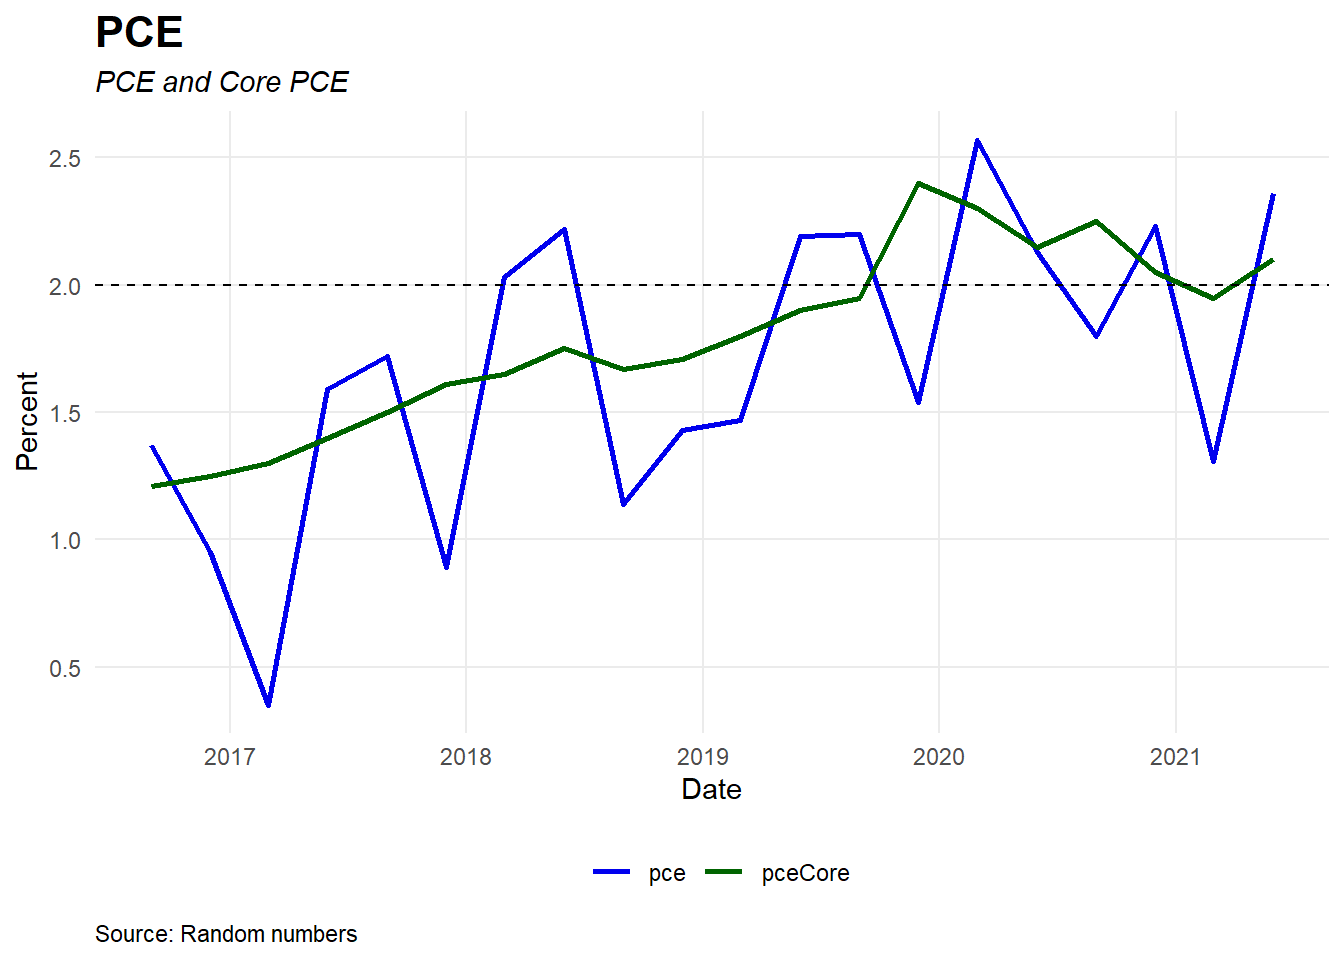
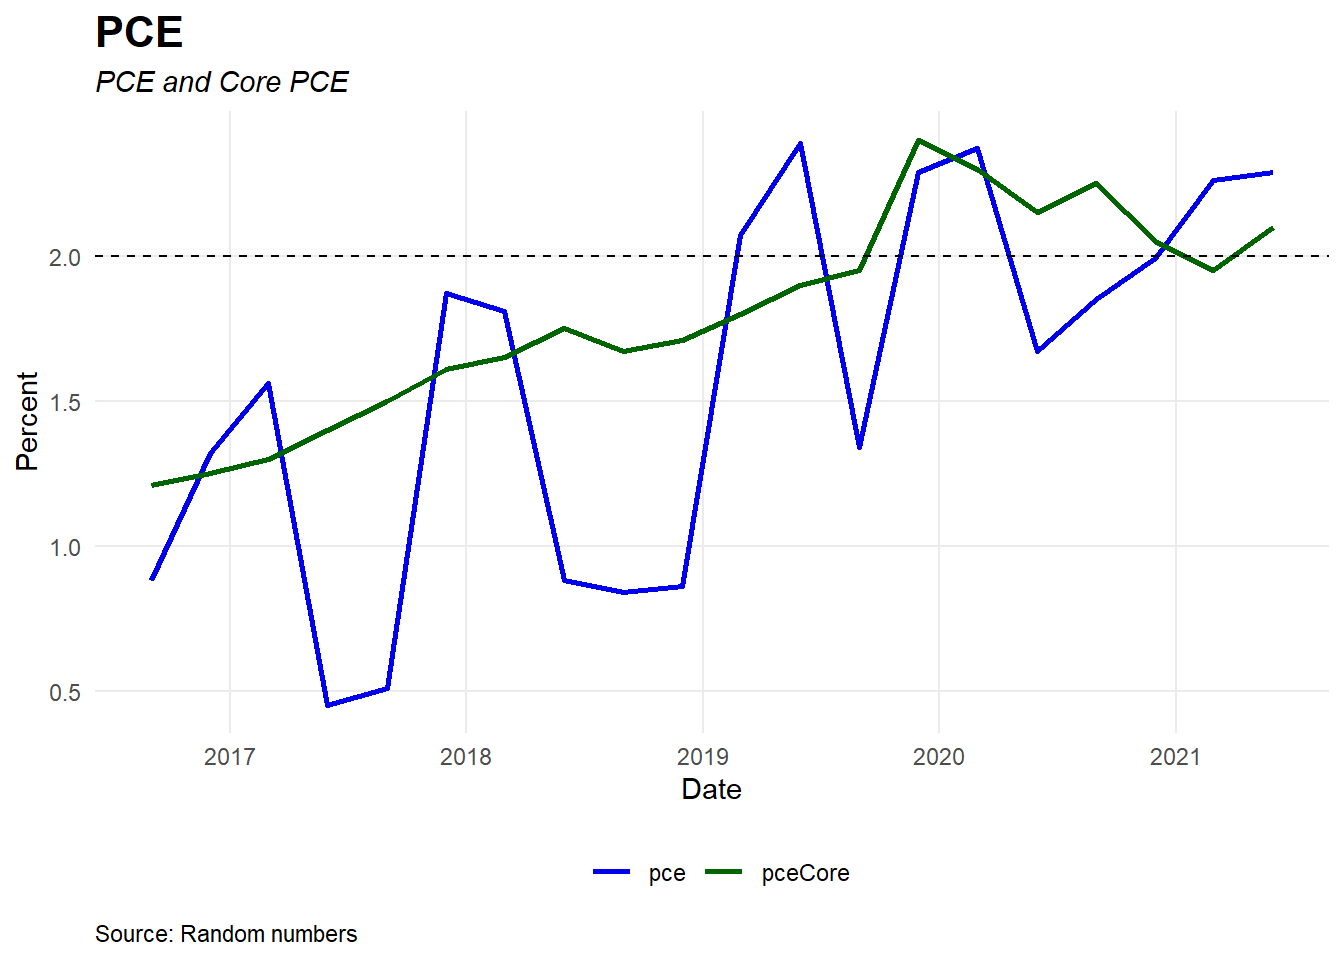
update

diff --git a/01-Plots.html b/01-Plots.html
@@ -382,30 +382,44 @@ summary {
 <div id="basic-line-plot" class="section level3">
 <h3>Basic Line Plot</h3>
 <p><strong>Create Dataframe</strong></p>
-<pre class="r"><code>#library(tidyverse)
+<pre class="r"><code>#bookdown::render_book(&quot;index.Rmd&quot;)
 
-### Create sample dataframe
+#```{r setup, include=FALSE}
+#knitr::opts_chunk$set(echo = TRUE)
+#library(tidyverse)
+#```
+
+#library(tidyverse)
+
+#####################################################################################################
+### Create sample dataframe                                                                       
+#####################################################################################################
+
 df &lt;- tibble(
   date = seq(as.Date(&#39;2015-01-01&#39;), as.Date(&#39;2021-08-31&#39;), by = &#39;month&#39;)-1,
   gdp = 2 + round(runif(80, min=-1, max=1),2),
-  pce = round(runif(80, min=-1, max=3.5),2),
+  pce = 2 + round(runif(80, min=-0.2, max=0.5),2),
   pceCore = pce + round(runif(80, min=-1, max=0.5),2)
 )
 
-### Prepare plotting: Convert to Longer dataframe
+
+#####################################################################################################
+### Prepare plotting: Convert to Longer dataframe                                                                     
+#####################################################################################################
 df &lt;- pivot_longer(df,
                    -date,
                    names_to = &quot;variable&quot;,
                    values_to = &quot;values&quot;)
 
 
-
-### Create Line plot with pce
 plotData &lt;- df %&gt;%
   filter(variable == &quot;pce&quot;)
 
 
-### Plot
+#####################################################################################################
+### Plot                                                                    
+#####################################################################################################
+
 plot &lt;- ggplot(plotData, aes(x = date, y = values, group = variable, color = variable)) + 
   geom_line(size = 1)+
   geom_hline(yintercept = 2, linetype = &quot;dashed&quot;)+
@@ -422,7 +436,7 @@ plot &lt;- ggplot(plotData, aes(x = date, y = values, group = variable, color = 
        caption=&quot;Source: Random numbers&quot;)
 
 plot</code></pre>
[2 lines of base64/hex data omitted]
 </div>
 </div>
 </div>

diff --git a/docs/plots.html b/docs/plots.html
@@ -131,9 +131,9 @@ code span.wa { color: #60a0b0; font-weight: bold; font-style: italic; } /* Warni
 <li class="chapter" data-level="1" data-path="plots.html"><a href="plots.html"><i class="fa fa-check"></i><b>1</b> Plots</a><ul>
 <li class="chapter" data-level="1.1" data-path="plots.html"><a href="plots.html#line-plots"><i class="fa fa-check"></i><b>1.1</b> Line Plots</a><ul>
 <li class="chapter" data-level="1.1.1" data-path="plots.html"><a href="plots.html#basic-line-plot"><i class="fa fa-check"></i><b>1.1.1</b> Basic Line Plot</a></li>
-<li class="chapter" data-level="1.1.2" data-path="plots.html"><a href="plots.html#scatterplot"><i class="fa fa-check"></i><b>1.1.2</b> Scatterplot</a></li>
-<li class="chapter" data-level="1.1.3" data-path="plots.html"><a href="plots.html#bar-chart"><i class="fa fa-check"></i><b>1.1.3</b> Bar Chart</a></li>
 </ul></li>
+<li class="chapter" data-level="1.2" data-path="plots.html"><a href="plots.html#scatterplots"><i class="fa fa-check"></i><b>1.2</b> Scatterplots</a></li>
+<li class="chapter" data-level="1.3" data-path="plots.html"><a href="plots.html#bar-charts"><i class="fa fa-check"></i><b>1.3</b> Bar Charts</a></li>
 </ul></li>
 </ul>
 
@@ -216,8 +216,9 @@ code span.wa { color: #60a0b0; font-weight: bold; font-style: italic; } /* Warni
 <a class="sourceLine" id="cb1-56" title="56">plot </a></code></pre></div>
 <p><img src="_main_files/figure-html/unnamed-chunk-1-1.png" width="672" /></p>
 </div>
-<div id="scatterplot" class="section level3">
-<h3><span class="header-section-number">1.1.2</span> Scatterplot</h3>
+</div>
+<div id="scatterplots" class="section level2">
+<h2><span class="header-section-number">1.2</span> Scatterplots</h2>
 <div class="sourceCode" id="cb2"><pre class="sourceCode r"><code class="sourceCode r"><a class="sourceLine" id="cb2-1" title="1"><span class="co">#library(tidyverse)</span></a>
 <a class="sourceLine" id="cb2-2" title="2"><span class="co">#####################################################################################################</span></a>
 <a class="sourceLine" id="cb2-3" title="3"><span class="co">### Create sample dataframe                                                                       </span></a>
@@ -250,8 +251,8 @@ code span.wa { color: #60a0b0; font-weight: bold; font-style: italic; } /* Warni
 <a class="sourceLine" id="cb2-30" title="30">plot </a></code></pre></div>
 <p><img src="_main_files/figure-html/unnamed-chunk-2-1.png" width="672" /></p>
 </div>
-<div id="bar-chart" class="section level3">
-<h3><span class="header-section-number">1.1.3</span> Bar Chart</h3>
+<div id="bar-charts" class="section level2">
+<h2><span class="header-section-number">1.3</span> Bar Charts</h2>
 <p><em>Bar Chart with different colors for positive and negative numbers</em></p>
 <div class="sourceCode" id="cb3"><pre class="sourceCode r"><code class="sourceCode r"><a class="sourceLine" id="cb3-1" title="1"><span class="co">#library(tidyverse)</span></a>
 <a class="sourceLine" id="cb3-2" title="2"><span class="co">#####################################################################################################</span></a>
@@ -289,7 +290,6 @@ code span.wa { color: #60a0b0; font-weight: bold; font-style: italic; } /* Warni
 <a class="sourceLine" id="cb3-34" title="34">plot </a></code></pre></div>
 <p><img src="_main_files/figure-html/unnamed-chunk-3-1.png" width="672" /></p>
 
-</div>
 </div>
 </div>
             </section>

diff --git a/docs/index.html b/docs/index.html
@@ -131,9 +131,9 @@ code span.wa { color: #60a0b0; font-weight: bold; font-style: italic; } /* Warni
 <li class="chapter" data-level="1" data-path="plots.html"><a href="plots.html"><i class="fa fa-check"></i><b>1</b> Plots</a><ul>
 <li class="chapter" data-level="1.1" data-path="plots.html"><a href="plots.html#line-plots"><i class="fa fa-check"></i><b>1.1</b> Line Plots</a><ul>
 <li class="chapter" data-level="1.1.1" data-path="plots.html"><a href="plots.html#basic-line-plot"><i class="fa fa-check"></i><b>1.1.1</b> Basic Line Plot</a></li>
-<li class="chapter" data-level="1.1.2" data-path="plots.html"><a href="plots.html#scatterplot"><i class="fa fa-check"></i><b>1.1.2</b> Scatterplot</a></li>
-<li class="chapter" data-level="1.1.3" data-path="plots.html"><a href="plots.html#bar-chart"><i class="fa fa-check"></i><b>1.1.3</b> Bar Chart</a></li>
 </ul></li>
+<li class="chapter" data-level="1.2" data-path="plots.html"><a href="plots.html#scatterplots"><i class="fa fa-check"></i><b>1.2</b> Scatterplots</a></li>
+<li class="chapter" data-level="1.3" data-path="plots.html"><a href="plots.html#bar-charts"><i class="fa fa-check"></i><b>1.3</b> Bar Charts</a></li>
 </ul></li>
 </ul>
 
